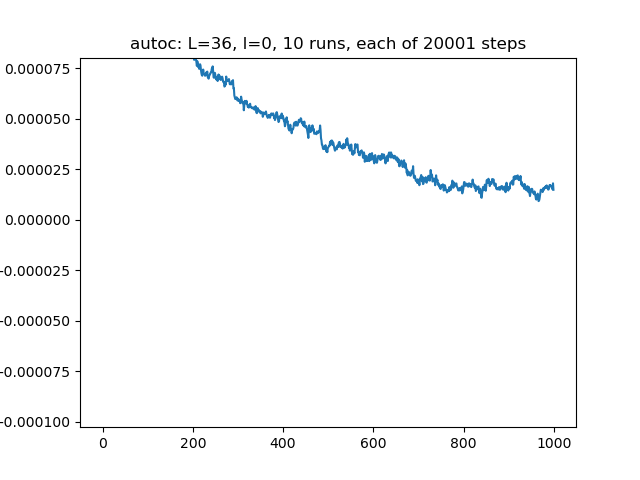
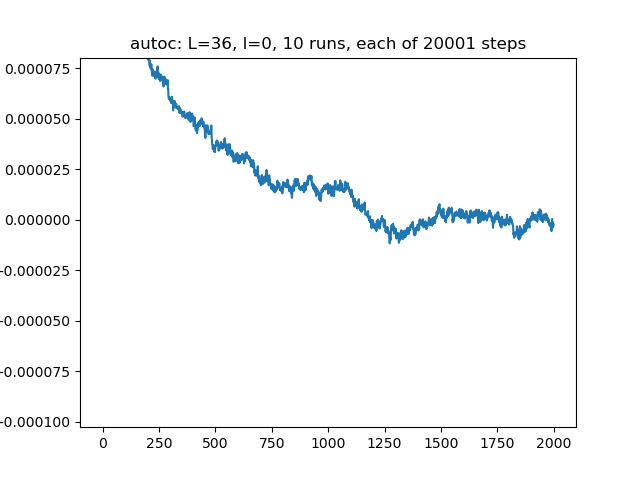
new autoc files

diff --git a/code/autocorrelation.py b/code/autocorrelation.py
@@ -28,7 +28,7 @@ def autocorrelation(L,l):
 	data_rge = data_max-data_min
 
 	plt.title('autoc: L='+ str(L) + ', l=' + str(l) + ', ' + str(N_runs) + " runs, each of " + str(N_steps) + " steps")
-	plt.plot(data[:1000])
+	plt.plot(data[:int(len(data)/10)])
 	plt.ylim([data_min-data_rge, data_max+data_rge])
 	plt.savefig('../img/N_flippable_autoc_L' + str(L) + 'l' + str(l))
 	plt.clf()
